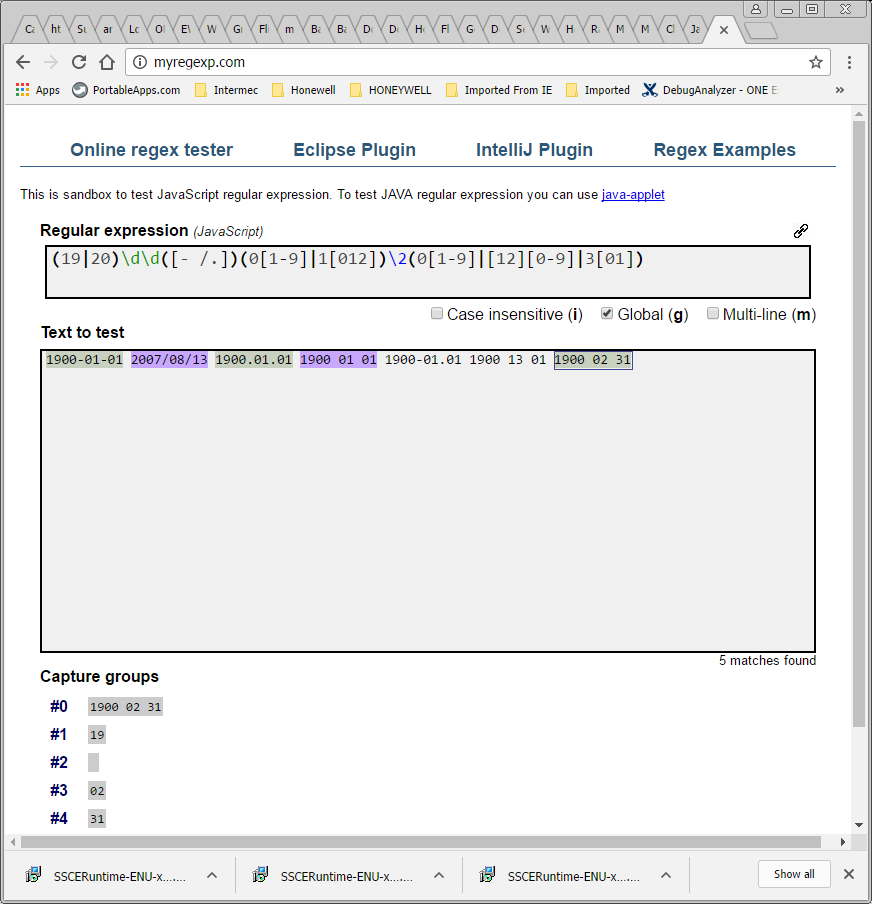
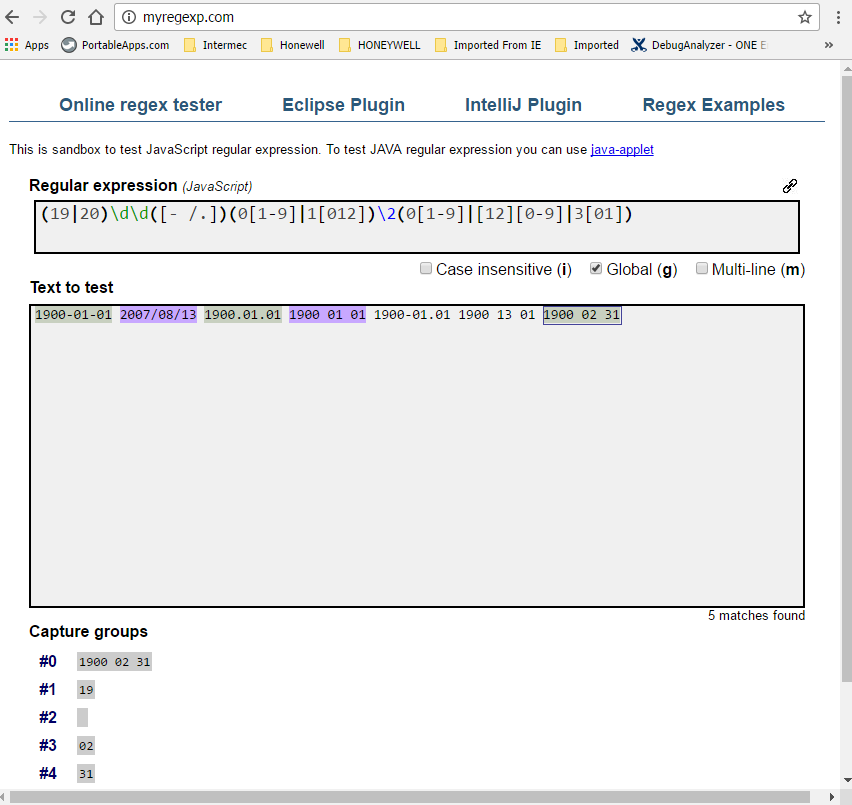
updating usage.md

Changed region(s): [[0.0, 0.0, 1.0, 1.0]]

diff --git a/app/doc/usage.md b/app/doc/usage.md
@@ -81,41 +81,47 @@ A rule line starting with a # will be treated as comment and will not be further
 
     # this is a comment;
 
-## A rule line
+### A rule line
 
-Every rule line can have either two or three sections or fields. Fields have to be separated by 
+Every rule line can have either two or three sections or fields:
+
+	regex=>replacement
+
+	Options/AimID=>regex=>replacement
+
+Fields have to be separated by 
 
     =>
 
-and the rule lines have to end with
+and the rule lines in a file have to end with:
 
     ;\r\n
 
 (A semicolon followed by carriage return / line feed.)
  
-### Two-field rules
+#### Two-field rules
 
 The first field defines the pattern that a barcode data must match for the rule being executed. The second field is the replacement to be used if the pattern matches the barcode data.
 
-    pattern=>replacement;
+    regex pattern=>replacement;
 
-### Three-field rules
+#### Three-field rules
 
 The first field may contain the option '+' and or 'g' and may be followed by the Symbology AimID that must match the AimID of the scanned barcode.
 
     [+][g][AimID]=>pattern=>replacement;
 
-#### The '+' option
+##### The '+' option
 
 Rules are processed line by line from top to bottom. If a rule matches, the processing of further rule lines will not take place. If the '+' option is used, the rule processing will not stop after a rule line is matched.
 
-#### The 'g' option
+##### The 'g' option
 
 The demo plugin can match a pattern on the whole data or do a simple search-and-replace. If the 'g' option is used, the pattern and replacement field are used for a global search&replace.
 
 * The 'g' option implies also as the 'no-stop' handling. A following rule will be processed.
 
-#### The AimID
+##### The AimID
 
 The standard AimID can be used to let the demo plugin match only against barcode that has the same AimID.
 
@@ -124,6 +130,14 @@ For example:
     ]A0=>(.*)=>Aim Id matches for: $1;
 
 will output the data with the prefix "Aim Id matches: " only for barcode with AimID "]A0".
+
+##### The regex
+
+The regex field defines the pattern to be searched for in the input data.
+
+##### The replacment
+
+The replacement defines the output for scanned data if the regex pattern matches.
 
 # To escape or not escape characters?
 
@@ -426,3 +440,24 @@ or you will get (possibly) unexpected results. With all ex1 rules enabled you wi
 ## Note
 
 The ; is not part of the rule. ;\r\n is used to split the rules file into rules.
+
+# Testing
+
+There are various web sites that enable online testing of java regex. This should be used to verify a regex will work for given input data and outs pus the desired changed data.
+Please note that these links are provided just as a sample and my or may not work for you. There is no warranty.
+
+* myregexp.com
+
+![TotalFreedomTest_02](https://raw.githubusercontent.com/hjgode/TotalFreedomDataEdit/master/app/doc/myregexcom.png)
+
+* www.regexplanet.com/advanced/java/
+
+![TotalFreedomTest_02](https://raw.githubusercontent.com/hjgode/TotalFreedomDataEdit/master/app/doc/regexplanetcom.png)
+
+* regexe.com
+
+![TotalFreedomTest_02](https://raw.githubusercontent.com/hjgode/TotalFreedomDataEdit/master/app/doc/regexcom.png)
+
+* regex101.com
+
+![TotalFreedomTest_02](https://raw.githubusercontent.com/hjgode/TotalFreedomDataEdit/master/app/doc/regex101com.png)
